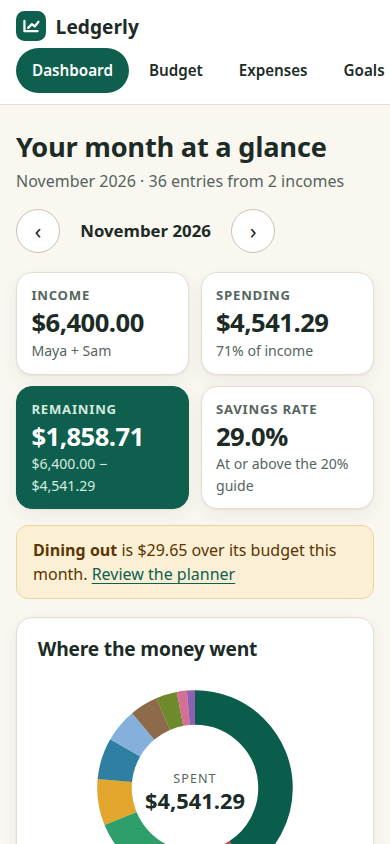
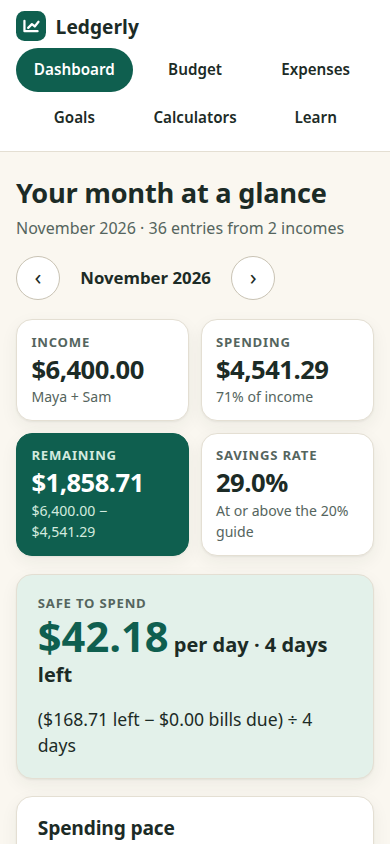
v3b: safe-to-spend strip, spending pace chart and next actions on the dashboard; phone nav grid
Figures are computed from the stored entries, budgets and bills. Action buttons move budget between categories. Phone nav fixed by editing the existing <=680px rules; the new dashboard styles load with dashboard.js so first-load bytes do not grow. Re-shot screenshots 1 and 4.

diff --git a/app/dashboard.js b/app/dashboard.js
@@ -1,18 +1,55 @@
 // Dashboard: the selected month at a glance — KPIs, category chart, budget vs actual, upcoming bills, featured goal.
-import { get, getMonth, CATEGORIES } from './store.js';
-import { summary, upcomingBills, headline } from './budget.js';
+import { get, getMonth, save, CATEGORIES } from './store.js';
+import { summary, upcomingBills } from './budget.js';
 import { categoryChart } from './charts.js';
 import { budgetBar, budgetStatus, monthSwitcher } from './ui.js';
 import { goalCard, goalStatus } from './goals.js';
-import { $, esc, money, percent, monthLabel, dateLabel } from './util.js';
+import { $, esc, money, moneyShort, percent, monthLabel, dateLabel, daysInMonth, today, monthOf } from './util.js';
+
+
+// Decision devices, all computed from the stored entries, budgets and bills.
+function pace(state, s, key) {
+  const M = daysInMonth(key), now = today();
+  const D = key === monthOf(now) ? Number(now.slice(8)) : key < monthOf(now) ? M : 1;
+  const bills = key === monthOf(now) ? state.bills.filter((b) => b.day > D).reduce((a, b) => a + b.cents, 0) : 0;
+  const left = s.budgetTotal - s.spent, daysLeft = M - D + 1;
+  const day = Array(M + 1).fill(0);
+  s.entries.forEach((e) => { day[Number(e.date.slice(8))] += e.cents; });
+  const cum = []; day.reduce((a, c, i) => (i ? (cum.push(a + c), a + c) : 0), 0);
+  const plan = (d) => (s.budgetTotal * d) / M, gap = cum[D - 1] - plan(D);
+  return { M, D, bills, left, daysLeft, per: Math.max(0, left - bills) / daysLeft, cum, plan, gap };
+}
+function paceChart(p, budget) {
+  const W = 640, H = 300, l = 62, r = 16, t = 16, b = 44, iw = W - l - r, ih = H - t - b;
+  const top = Math.max(budget, ...p.cum), x = (d) => l + (iw * (d - 1)) / (p.M - 1), y = (v) => t + ih * (1 - v / top);
+  const line = p.cum.slice(0, p.D).map((v, i) => `${i ? 'L' : 'M'}${x(i + 1).toFixed(1)} ${y(v).toFixed(1)}`).join(' ');
+  const grid = [0, .5, 1].map((f) => `<line x1="${l}" x2="${W - r}" y1="${y(top * f)}" y2="${y(top * f)}" stroke="#e4dfd3"/><text x="${l - 8}" y="${y(top * f) + 6}" text-anchor="end" font-size="18" fill="#55655e">${moneyShort(top * f)}</text>`).join('');
+  const days = [1, 8, 15, 22, p.M].map((d) => `<text x="${x(d)}" y="${H - 14}" text-anchor="${d === p.M ? 'end' : 'middle'}" font-size="18" fill="#55655e">Day ${d}</text>`).join('');
+  return `<svg viewBox="0 0 ${W} ${H}" class="pace-svg" role="img" aria-label="Cumulative spending against an even pace for the month budget">${grid}${days}
+    <path d="M${x(1)} ${y(budget / p.M)} L${x(p.M)} ${y(budget)}" stroke="#7a8580" stroke-width="3" stroke-dasharray="8 6" fill="none"/>
+    <path d="${line}" fill="none" stroke="#0f5f4f" stroke-width="4" stroke-linejoin="round"/>
+    <line x1="${x(p.D)}" x2="${x(p.D)}" y1="${t}" y2="${t + ih}" stroke="#b0382a" stroke-width="2" stroke-dasharray="3 4"/>
+    <circle cx="${x(p.D)}" cy="${y(p.cum[p.D - 1])}" r="7" fill="#b0382a"/></svg>`;
+}
+// Overspent categories, each paired with a category that can cover it (fully if possible, wants first).
+function actions(state, s) {
+  const rows = CATEGORIES.map((c) => ({ c, over: s.byCat[c.id] - (state.budgets[c.id] ?? 0), room: (state.budgets[c.id] ?? 0) - s.byCat[c.id] }));
+  return rows.filter((r) => r.over > 0).sort((a, b) => b.over - a.over).slice(0, 2).map((o) => {
+    const from = rows.filter((r) => r.c.id !== o.c.id && r.room > 0).sort((a, b) => (b.room >= o.over) - (a.room >= o.over) || (b.c.group === 'want') - (a.c.group === 'want') || b.room - a.room)[0];
+    return { o, from, amt: from ? Math.min(o.over, from.room) : 0 };
+  });
+}
 
 export function render(main) {
   main.innerHTML = '<div class="page-head row"><div><h1>Your month at a glance</h1><p class="lede" id="dash-lede"></p></div><div id="dash-month"></div></div><div id="dash-body"></div>';
   const draw = () => {
-    const state = get(), key = getMonth(), s = summary(state, key), tip = headline(state, s);
+    const state = get(), key = getMonth(), s = summary(state, key);
     $('#dash-lede', main).textContent = `${monthLabel(key)} · ${s.entries.length} entries from ${state.income.length} incomes`;
     const bills = upcomingBills(state);
     const goal = state.goals[0];
+    const p = pace(state, s, key), acts = actions(state, s), bill = bills[0];
+    const tight = CATEGORIES.map((c) => ({ c, left: (state.budgets[c.id] ?? 0) - s.byCat[c.id], b: state.budgets[c.id] ?? 0 })).filter((r) => r.b && r.left > 0 && r.left / r.b < 0.2).sort((a, b) => a.left / a.b - b.left / b.b)[0];
+    const more = [bill && `<li><span><strong>${esc(bill.name)}</strong> ${money(bill.cents)} is due ${bill.inDays === 0 ? 'today' : `in ${bill.inDays} ${bill.inDays === 1 ? 'day' : 'days'}`} (${dateLabel(bill.date)})</span><a class="btn small" href="tracker.html">Log it</a></li>`, tight && `<li><span><strong>${esc(tight.c.name)}</strong> has ${money(tight.left)} left of ${money(tight.b)}</span><a class="btn small" href="planner.html">Adjust budget</a></li>`].filter(Boolean).slice(0, 3 - acts.length);
     const rows = CATEGORIES.map((c) => ({ c, spent: s.byCat[c.id], budget: state.budgets[c.id] ?? 0 }));
     $('#dash-body', main).innerHTML = `
       <section class="kpis" aria-label="Month totals">
@@ -21,7 +58,14 @@ export function render(main) {
         <div class="kpi accent"><span class="kpi-label">Remaining</span><span class="kpi-value ${s.remaining < 0 ? 'neg' : ''}">${money(s.remaining)}</span><span class="kpi-sub">${money(s.income)} − ${money(s.spent)}</span></div>
         <div class="kpi"><span class="kpi-label">Savings rate</span><span class="kpi-value">${percent(s.savingsRate)}</span><span class="kpi-sub">${s.savingsRate >= 0.2 ? 'At or above the 20% guide' : 'Below the 20% guide'}</span></div>
       </section>
-      ${tip ? `<p class="callout warn"><strong>${esc(tip.cat.name)}</strong> is ${money(tip.amount)} over its budget this month. <a href="planner.html">Review the planner</a></p>` : '<p class="callout">Every category is within budget this month.</p>'}
+      <style>.strip { display: flex; justify-content: space-between; align-items: center; gap: 1rem; flex-wrap: wrap; margin-top: 1.1rem; background: var(--accent-soft); }.strip-fig { font-size: 2.6rem; line-height: 1.1; color: var(--accent); }.strip-unit { font-size: 1.25rem; font-weight: 650; }.strip div > span { display: block; } .strip div > .strip-unit { display: inline; }.strip-math { margin: 0; font-size: 1.1rem; }.pace-row { margin-top: 1.1rem; } .pace-svg { width: 100%; height: auto; display: block; }.verdict { margin: .5rem 0 0; font-size: 1.1rem; }.acts { list-style: none; margin: 0; padding: 0; display: grid; gap: .8rem; }.acts li { display: grid; gap: .4rem; justify-items: start; padding-bottom: .8rem; border-bottom: 1px solid var(--line); font-size: 1.05rem; }.acts li:last-child { border: 0; }</style>
+      <section class="card strip" aria-label="Safe to spend"><div><span class="kpi-label">Safe to spend</span><strong class="strip-fig">${money(p.per)}</strong><span class="strip-unit"> per day · ${p.daysLeft} days left</span></div>
+        <p class="strip-math">(${money(Math.max(0, p.left))} left − ${money(p.bills)} bills due) ÷ ${p.daysLeft} days</p></section>
+      <div class="dash-grid pace-row">
+      <section class="card span-2"><h2>Spending pace</h2>${paceChart(p, s.budgetTotal)}
+        <p class="verdict"><strong>${Math.abs(p.gap) < 100 ? 'On pace' : `${money(Math.abs(p.gap))} ${p.gap > 0 ? 'ahead of' : 'behind'} pace`}</strong> on day ${p.D} of ${p.M}. <span class="muted">Green: spent so far. Dashed: even pace to the ${money(s.budgetTotal)} budget.</span></p></section>
+      <section class="card"><h2>Next actions</h2>${acts.length + more.length ? `<ul class="acts">${acts.map((a, i) => `<li><span><strong>${esc(a.o.c.name)}</strong> is ${money(a.o.over)} over${a.from ? ` — cover ${a.amt < a.o.over ? `${money(a.amt)} of it ` : 'it '}from ${esc(a.from.c.name)}` : ''}</span>${a.from ? `<button class="btn small" data-act="${i}">Move ${money(a.amt)}</button>` : ''}</li>`).join('')}${more.join('')}</ul>` : '<p class="empty">Every category is within budget. Nothing to move.</p>'}</section>
+      </div>
       <div class="dash-grid">
         <section class="card span-2"><h2>Where the money went</h2>${categoryChart(s.byCat, { bars: false })}</section>
         <section class="card"><h2>Next bills due</h2>
@@ -33,6 +77,13 @@ export function render(main) {
           ${state.goals.length > 1 ? `<ul class="goal-mini" aria-label="Other goals">${state.goals.slice(1).map((g) => { const st = goalStatus(g); return `<li><span>${esc(g.name)}</span><span class="muted">${money(g.saved)} of ${money(g.target)}</span><span class="progress thin"><span style="width:${(st.progress * 100).toFixed(1)}%"></span></span></li>`; }).join('')}</ul>` : ''}</section>
       </div>`;
   };
+  main.addEventListener('click', (e) => {
+    const b = e.target.closest('[data-act]');
+    if (!b) return;
+    const state = get(), a = actions(state, summary(state, getMonth()))[b.dataset.act];
+    if (!a || !a.from) return;
+    state.budgets[a.from.c.id] -= a.amt; state.budgets[a.o.c.id] += a.amt; save(); draw();
+  });
   monthSwitcher($('#dash-month', main), draw);
   draw();
 }

diff --git a/app/style.css b/app/style.css
@@ -231,8 +231,8 @@ table .num { text-align: right; }
 /* phone */
 @media (max-width: 680px) {
   .bar { flex-direction: column; align-items: stretch; gap: .4rem; padding-bottom: .4rem; }
-  .site-header nav { overflow-x: auto; scrollbar-width: none; padding-bottom: .3rem; margin-inline: -1rem; padding-inline: 1rem; }
-  .site-header nav a { padding: .7rem 1rem; min-height: 44px; display: flex; align-items: center; }
+  .site-header nav { display: grid; grid-template-columns: repeat(3, 1fr); padding-bottom: .3rem; }
+  .site-header nav a { padding: .5rem; min-height: 44px; display: flex; align-items: center; justify-content: center; }
   .brand small { display: none; }
   .dash-grid, .plan-grid, .goal-grid { grid-template-columns: 1fr; }
   .kpis, .kpis:has(> :nth-child(3):last-child) { grid-template-columns: 1fr 1fr; gap: .7rem; }
